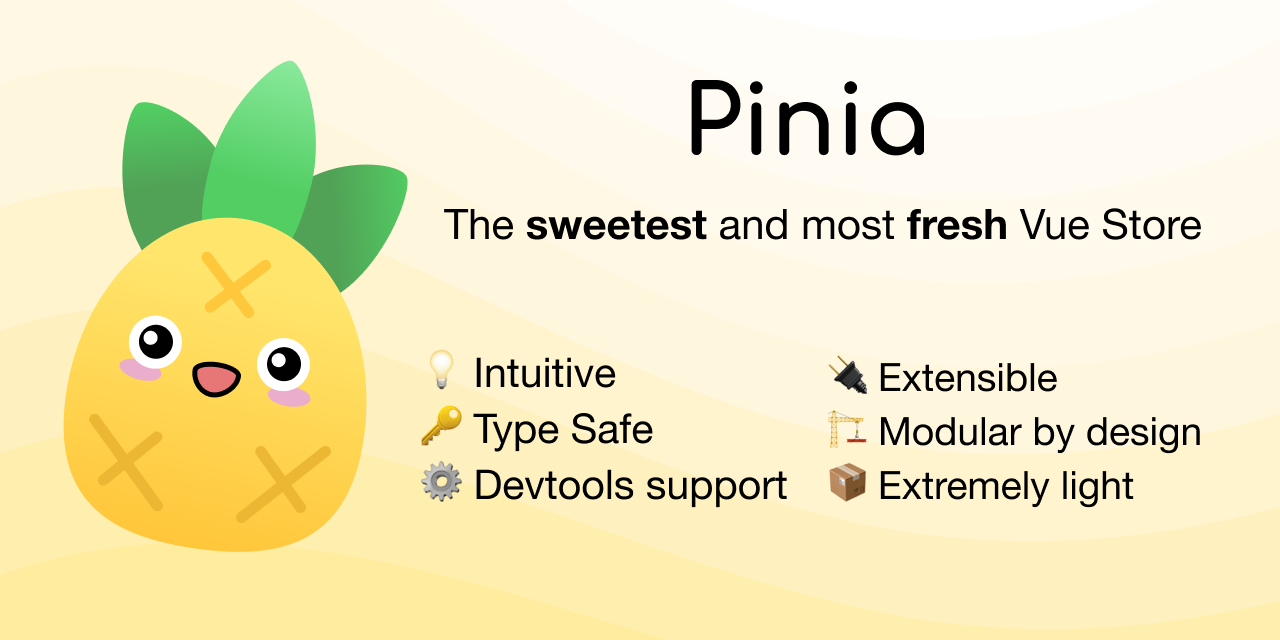
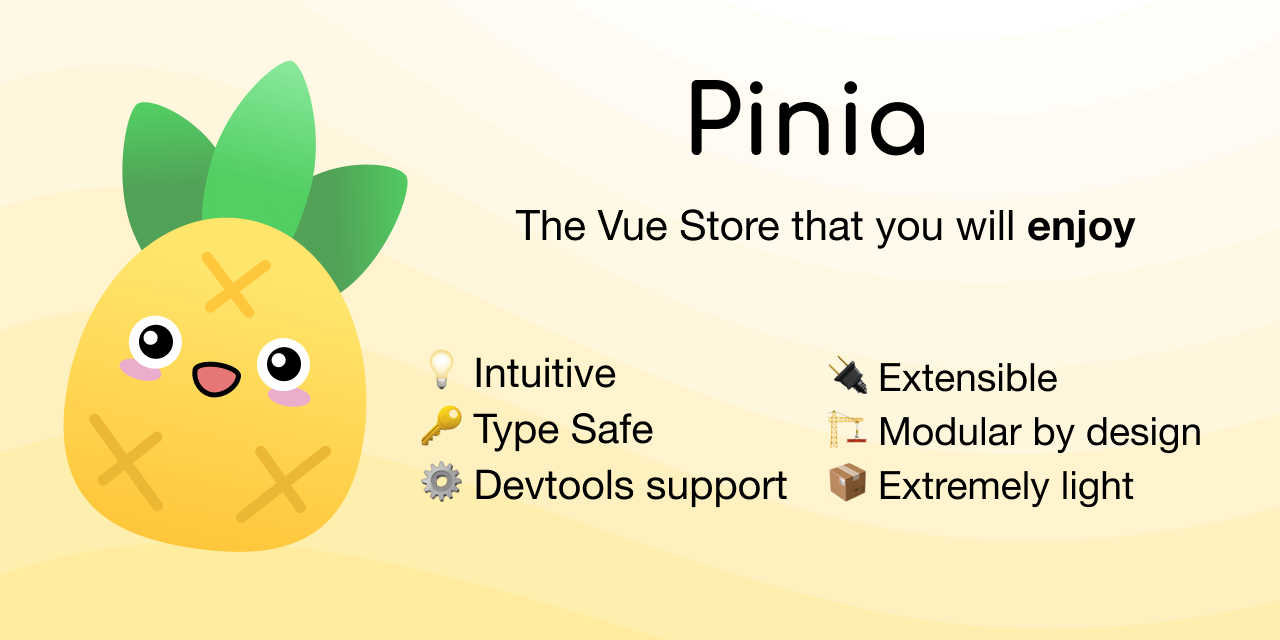
docs: social image

Changed region(s): [[0.3438, 0.3125, 0.9375, 0.375]]

diff --git a/docs/.vitepress/config.js b/docs/.vitepress/config.js
@@ -12,7 +12,7 @@ const META_IMAGE = 'https://pinia.esm.dev/social.png'
 module.exports = {
   title: 'Pinia',
   lang: 'en',
-  description: 'The sweetest and most fresh Vue Store',
+  description: 'The Vue Store that you will enjoy using',
   head: [
     ['link', { rel: 'icon', type: 'image/svg+xml', href: '/logo.svg' }],
     [
